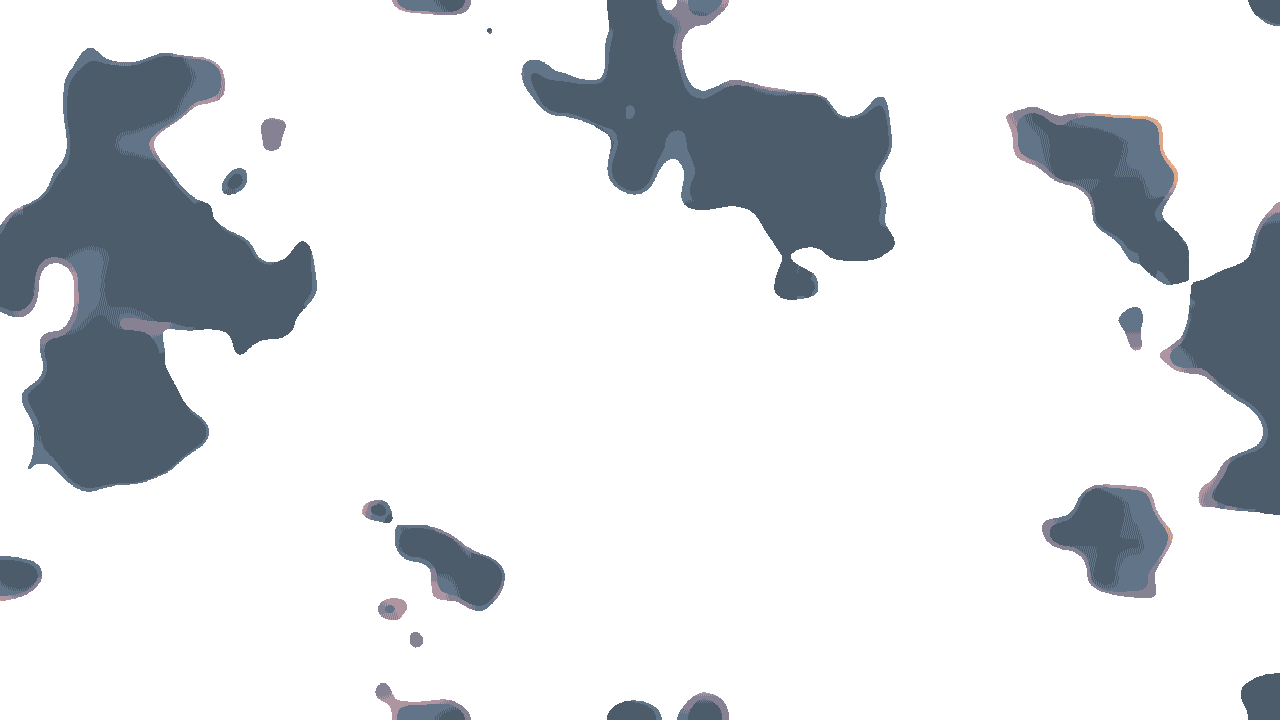
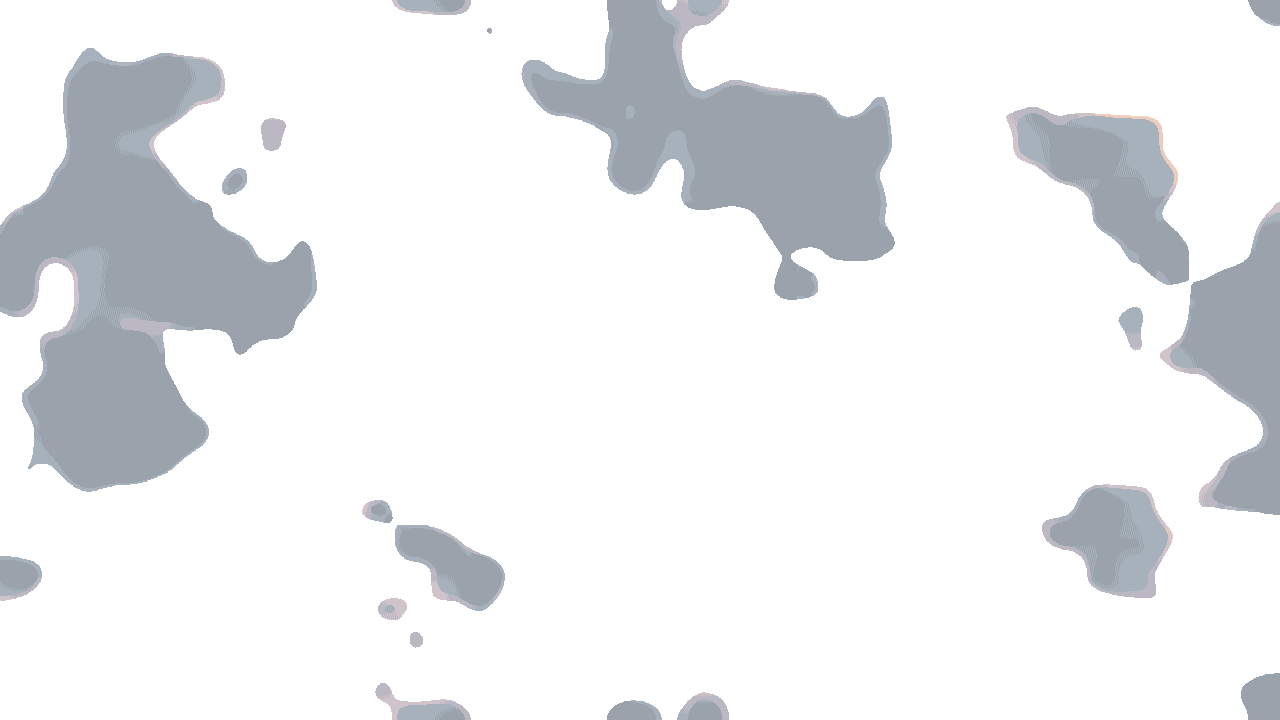
added images to left and right dashboard screens

diff --git a/scripts/main.js b/scripts/main.js
@@ -47,8 +47,7 @@ function gameLoop() {
   titleLogo.style.display = 'none';
   startGameText.style.display = 'none';
 
-  drawCockpit();
-  
+  drawCockpit(); 
 }
 
 
@@ -71,10 +70,16 @@ function drawCockpit() {
   const background = document.createElement('div');
   background.className = 'background';
   dashboard.appendChild(background);
+  
   // create the "left" screen
   const left = document.createElement('div');
   left.id = 'left';
   dashboard.appendChild(left);
+  // add image to the left screen
+  const leftImage = document.createElement('img');
+  leftImage.src = preloadedAssets['assets/halftone-screen-left.png'].src;
+  left.appendChild(leftImage);
+
   // create the "middle" screen
   const middle = document.createElement('div');
   middle.id = 'middle';
@@ -90,17 +95,23 @@ function drawCockpit() {
   iframe.allowFullscreen = false;
   iframe.autoplay = true;
   middle.appendChild(iframe);
+
   // create the "right" screen
   const right = document.createElement('div');
   right.id = 'right';
   dashboard.appendChild(right);
+  // add image to the right screen
+  const rightImage = document.createElement('img');
+  rightImage.src = preloadedAssets['assets/halftone-screen-right.png'].src;
+  right.appendChild(rightImage);
+
 }
 
 
 
 
 
-  function gameLoopText() {
+  function textBasedGame() {
   // console.log("called: gameLoop()");
   const titleLogo = document.getElementById('title-logo');
   const startGameText = document.querySelector('.start-game-text');

diff --git a/styles/main.css b/styles/main.css
@@ -130,6 +130,15 @@ body {
     box-shadow: 0 0 20px rgba(0, 0, 0, 0.5);    
 }
 
+
+#left img, #right img {
+    width: 100%;
+    height: 100%;
+    object-fit: cover;
+    mix-blend-mode: multiply;
+}
+
+
 #middle iframe {
     position: absolute;
     top: 0;
